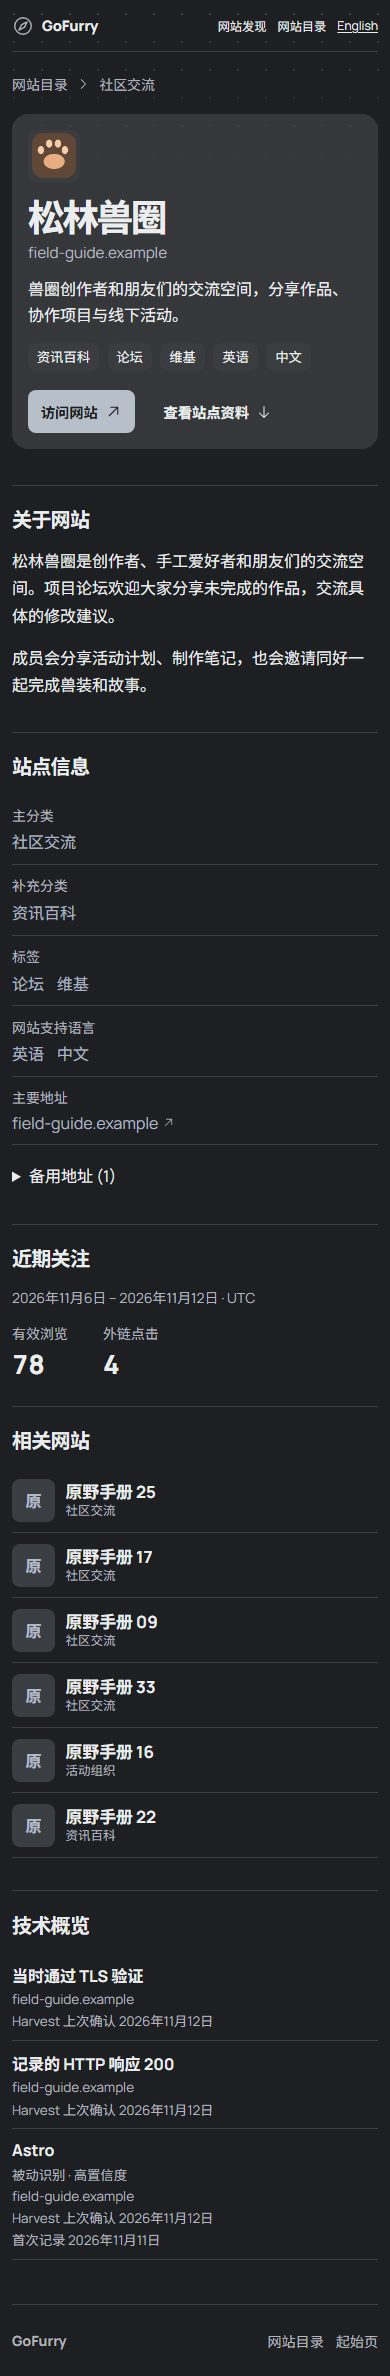
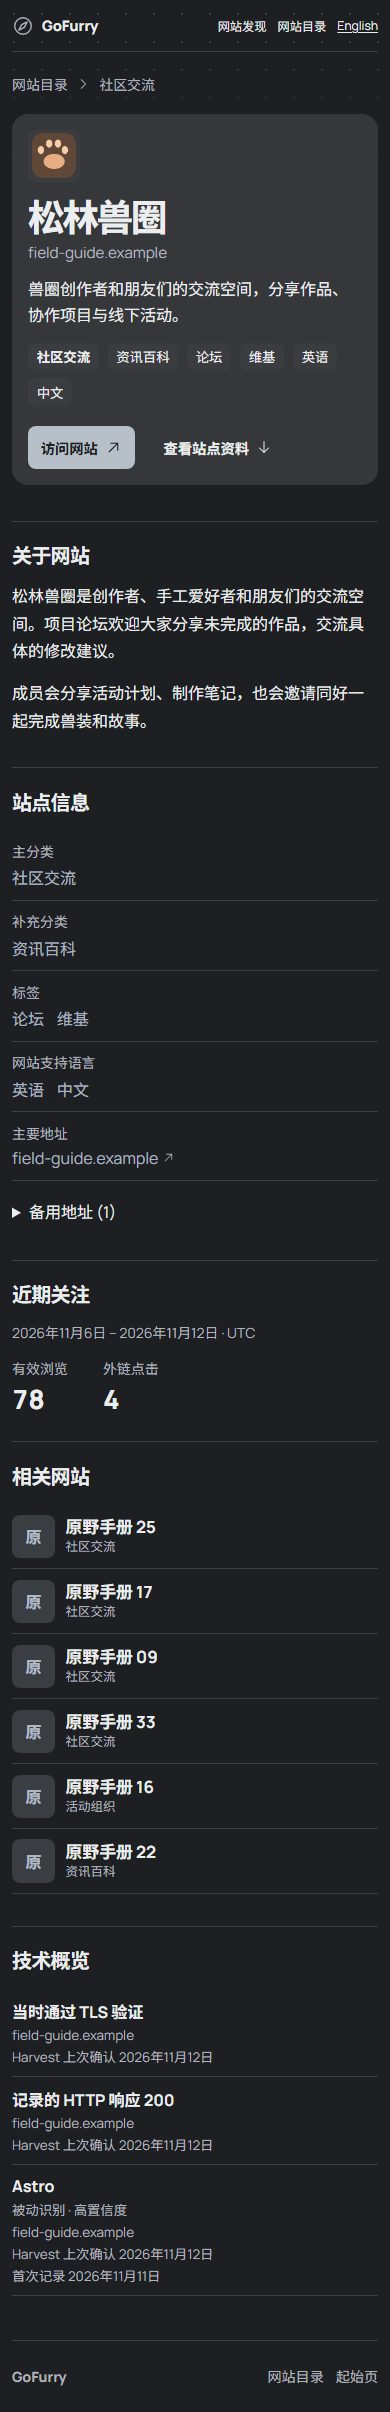
Restore paged directory position when returning from a Site

diff --git a/apps/web/src/navigation/directory.tsx b/apps/web/src/navigation/directory.tsx
@@ -1,4 +1,4 @@
-import { useEffect, useRef, useState, type FormEvent } from 'react'
+import { useEffect, useLayoutEffect, useRef, useState, type FormEvent, type MouseEvent } from 'react'
 import { useNavigate, useRouter, useRouterState } from '@tanstack/react-router'
 import { Dialog } from '@base-ui/react/dialog'
 import { MagnifyingGlassIcon } from '@phosphor-icons/react/dist/ssr/MagnifyingGlass'
@@ -58,6 +58,12 @@ function FilterDialog({ criteria, options, locale, apply }: { criteria: Criteria
 }
 
 type PageError = 'stale' | 'unavailable' | null
+type DirectoryPosition = { scope: string; depth: number; y: number }
+type DirectoryPages = { scope: string; source: Directory; rows: Directory['items']; next?: string; depth: number; restoreY?: number }
+
+// Keep only a position for a recently visited history entry. Cards and
+// cursors are fetched again from the current regional visibility snapshot.
+const directoryPositions = new Map<string, DirectoryPosition>()
 
 export function DirectoryPage({ page, data }: { page: Page; data: Directory }) {
   const { locale, region, path } = page
@@ -68,10 +74,11 @@ export function DirectoryPage({ page, data }: { page: Page; data: Directory }) {
   const router = useRouter()
   const changing = useRouterState({ select: state => state.isLoading })
   const locationKey = useRouterState({ select: state => state.location.href })
+  const historyKey = useRouterState({ select: state => state.location.state.__TSR_key })
   const [query, setQuery] = useState(criteria.q)
   const [loading, setLoading] = useState(false)
   const [issue, setIssue] = useState<PageError>(null)
-  const [extra, setExtra] = useState<{ scope: string; source: Directory; rows: Directory['items']; next?: string }>()
+  const [extra, setExtra] = useState<DirectoryPages>()
   const debounce = useRef<ReturnType<typeof setTimeout> | undefined>(undefined)
   const pending = useRef<AbortController | undefined>(undefined)
   const composing = useRef(false)
@@ -100,6 +107,16 @@ export function DirectoryPage({ page, data }: { page: Page; data: Directory }) {
     setExtra(undefined)
     return () => { pending.current?.abort(); pending.current = undefined }
   }, [data, locationKey])
+  useEffect(() => {
+    if (!historyKey || changing || !data.next) return
+    const position = directoryPositions.get(historyKey)
+    if (!position || position.scope !== scope) return
+    directoryPositions.delete(historyKey)
+    void appendPages(data.next, data.items, 1, position)
+  }, [data, historyKey, scope, changing])
+  useLayoutEffect(() => {
+    if (accumulated?.restoreY !== undefined) window.scrollTo({ top: accumulated.restoreY, behavior: 'instant' })
+  }, [accumulated])
   useEffect(() => () => clearTimeout(debounce.current), [])
 
   function cancelPage() {
@@ -136,35 +153,54 @@ export function DirectoryPage({ page, data }: { page: Page; data: Directory }) {
 
   async function loadMore() {
     if (!next || pending.current || changing) return
-    const restoreFocus = document.activeElement?.hasAttribute('data-load-more')
+    await appendPages(next, results, accumulated?.depth ?? 1)
+  }
+
+  async function appendPages(cursor: string, initialRows: Directory['items'], depth: number, restore?: DirectoryPosition) {
+    const restoreFocus = !restore && document.activeElement?.hasAttribute('data-load-more')
     const controller = new AbortController()
     pending.current = controller
     const current = () => !controller.signal.aborted && pending.current === controller && livePage.current === data && liveLocation.current === locationKey
     setLoading(true)
     setIssue(null)
     try {
-      const response = await fetch('/api/v1/sites/directory?' + apiQuery(criteria, locale, next), {
-        signal: AbortSignal.any([controller.signal, AbortSignal.timeout(5000)]), redirect: 'error', credentials: 'omit',
-      })
-      if (!current()) return
-      if (response.status === 400) { setIssue('stale'); return }
-      if (!response.ok || response.headers.get('x-gofurry-region') !== region || response.headers.get('x-gofurry-content-mode') !== 'SFW') throw new Error()
-      const page = decodeDirectory(await response.json())
-      if (!current()) return
-      const seen = new Set(results.map(item => item.public_id))
-      const additions = page.items.filter(item => {
-        if (seen.has(item.public_id)) return false
-        seen.add(item.public_id)
-        return true
-      })
-      const after = page.next === next ? undefined : page.next
-      setExtra({ scope, source: data, rows: [...results, ...additions], next: after })
-      if (!after && restoreFocus) resultHeading.current?.focus()
+      const seen = new Set(initialRows.map(item => item.public_id))
+      let rows = initialRows
+      let next: string | undefined = cursor
+      const targetDepth = restore?.depth ?? depth + 1
+      while (next && depth < targetDepth) {
+        const response = await fetch('/api/v1/sites/directory?' + apiQuery(criteria, locale, next), {
+          signal: AbortSignal.any([controller.signal, AbortSignal.timeout(5000)]), redirect: 'error', credentials: 'omit',
+        })
+        if (!current()) return
+        if (response.status === 400) { setIssue('stale'); return }
+        if (!response.ok || response.headers.get('x-gofurry-region') !== region || response.headers.get('x-gofurry-content-mode') !== 'SFW') throw new Error()
+        const page = decodeDirectory(await response.json())
+        if (!current()) return
+        const additions = page.items.filter(item => {
+          if (seen.has(item.public_id)) return false
+          seen.add(item.public_id)
+          return true
+        })
+        rows = [...rows, ...additions]
+        next = page.next === next ? undefined : page.next
+        depth += 1
+        setExtra({ scope, source: data, rows, next, depth, restoreY: !next || depth === targetDepth ? restore?.y : undefined })
+      }
+      if (!next && restoreFocus) resultHeading.current?.focus()
     } catch {
       if (current()) setIssue('unavailable')
     } finally {
       if (current()) { pending.current = undefined; setLoading(false) }
     }
+  }
+
+  function rememberPosition(event: MouseEvent<HTMLElement>) {
+    if (!historyKey || !accumulated || event.button !== 0 || event.metaKey || event.ctrlKey || event.shiftKey || event.altKey) return
+    const link = event.target instanceof Element ? event.target.closest('article[data-site-id] a') : null
+    if (!(link instanceof HTMLAnchorElement) || link.target || link.origin !== window.location.origin) return
+    directoryPositions.set(historyKey, { scope, depth: accumulated.depth, y: window.scrollY })
+    if (directoryPositions.size > 16) directoryPositions.delete(directoryPositions.keys().next().value!)
   }
 
   async function refresh() {
@@ -227,7 +263,7 @@ export function DirectoryPage({ page, data }: { page: Page; data: Directory }) {
       <button type="button" className={styles.textAction} onClick={() => { commit(emptyCriteria); searchInput.current?.focus() }}>{m.reset}</button>
     </div>}
     {data.sort === 'heat_7d' && data.effective_sort === 'published_desc' && <p className={styles.notice} role="status">{m.fallback}</p>}
-    <section aria-label={m.directory} aria-busy={loading || changing}>
+    <section aria-label={m.directory} aria-busy={loading || changing} onClickCapture={rememberPosition}>
       {results.length ? <div className={styles.directoryGrid}>{results.map(site => <SiteCard key={site.public_id} site={site} ctx={ctx} />)}</div>
         : <div className={styles.message}><h2>{m.empty}</h2><p>{m.emptyHint}</p></div>}
       {next && <div className={styles.pagination}>

diff --git a/apps/web/src/catalog/site-profile.tsx b/apps/web/src/catalog/site-profile.tsx
@@ -94,14 +94,15 @@ export function SiteProfile({ data }: { data: DetailPageData }) {
           {primary && <p className={styles.domain}>{host(primary.url)}</p>}
           {!translation && <p className={styles.translation}>{m.untranslated}</p>}
           {display.summary && <p className={styles.intro} lang={display.locale}>{display.summary}</p>}
-          {(detail.tags.length > 0 || detail.languages.length > 0 || detail.secondaryCategories.length > 0) && <ul className={styles.chips}>
+          {detail.primaryCategory && <ul className={styles.chips}>
+            <li><Link data-primary-category to={directory} search={to({ category: [detail.primaryCategory] })}>{categories[detail.primaryCategory][locale]}</Link></li>
             {detail.secondaryCategories.map(category => <li key={category}>
               <Link to={directory} search={to({ category: [category] })}>{categories[category][locale]}</Link></li>)}
             {detail.tags.slice(0, 3).map(tag => <li key={tag.code}><Link to={directory} search={to({ tags: [tag.code] })}>{tag[locale]}</Link></li>)}
             {detail.languages.slice(0, 3).map(code => <li key={code}><Link to={directory} search={to({ language: [code] })}>{languageLabel(code, locale)}</Link></li>)}
           </ul>}
           {(primary || hasMain || hasAside) && <div className={styles.actions}>
-            {primary && <a className={styles.visit} href={primary.url} target="_blank" rel="noopener noreferrer"
+            {primary && <a className={styles.visit} href={primary.url} target="_blank" rel="noopener noreferrer" aria-description={channel.newTab}
               onClick={visit} onAuxClick={visit}>{channel.visit}<ArrowUpRightIcon size={17} aria-hidden="true" /></a>}
             {(hasMain || hasAside) && <a className={styles.jump} href="#site-profile">{m.profile}<ArrowDownIcon size={16} aria-hidden="true" /></a>}
           </div>}

diff --git a/apps/web/tests/site-profile.spec.ts b/apps/web/tests/site-profile.spec.ts
@@ -99,9 +99,12 @@ test('directory history and Start menu preserve the navigation path, with native
     events.push(route.request().postDataJSON().type)
     return route.fulfill({ status: 503 })
   })
-  const filtered = '/en/sites/directory?tags=forum'
+  const filtered = '/en/sites/directory?tags=forum%2Cportfolio'
   await page.goto(edge + filtered)
   const source = page.locator('article[data-site-id="0000000000001019"]').getByRole('link', { name: 'Field Guide 25', exact: true })
+  await expect(source).toHaveCount(0)
+  await page.getByRole('button', { name: 'Load more' }).click()
+  await expect(source).toBeVisible()
   await source.scrollIntoViewIfNeeded()
   const scroll = await page.evaluate(() => scrollY)
   expect(scroll).toBeGreaterThan(50)
@@ -112,6 +115,7 @@ test('directory history and Start menu preserve the navigation path, with native
   await page.goBack()
   await expect(page).toHaveURL(edge + filtered)
   await expect(page.getByRole('button', { name: 'Remove Forum' })).toBeVisible()
+  await expect(source).toBeVisible()
   await expect.poll(() => page.evaluate(() => scrollY)).toBeCloseTo(scroll, 0)
   await page.goto(edge + '/en/start')
   await page.getByRole('button', { name: 'GoFurry brand' }).press('Enter')

diff --git a/apps/web/src/routes/{-$language}.sites.directory.tsx b/apps/web/src/routes/{-$language}.sites.directory.tsx
@@ -7,8 +7,11 @@ import { SitesFrame } from '../navigation/frame'
 
 export const Route = createFileRoute('/{-$language}/sites/directory')({
   loaderDeps: ({ search }) => normalizeCriteria(search),
-  loader: ({ params, location, context, deps, abortController }) =>
-    loadSites('directory', params.language, location.pathname, location.searchStr, context.preferences.region, deps, abortController.signal),
+  loader: {
+    staleReloadMode: 'blocking',
+    handler: ({ params, location, context, deps, abortController }) =>
+      loadSites('directory', params.language, location.pathname, location.searchStr, context.preferences.region, deps, abortController.signal),
+  },
   head: ({ loaderData }) => sitesHead(loaderData),
   headers: ({ loaderData }) => sitesHeaders(loaderData),
   component: Directory,

diff --git a/apps/web/src/catalog/site-profile.module.scss b/apps/web/src/catalog/site-profile.module.scss
@@ -41,6 +41,7 @@
 .profile .chips, .actions { display: flex; flex-wrap: wrap; gap: .45rem .55rem; margin-top: .9rem; }
 .profile .chips { list-style: none; padding: 0; font-size: .83rem; }
 .profile .chips a { display: inline-block; padding: .3rem .55rem; border-radius: var(--radius-small); background: var(--site-panel); }
+.profile .chips a[data-primary-category] { font-weight: 700; }
 .profile .chips a:hover { background: var(--surface-hover); }
 .profile .actions { margin-top: 1.2rem; gap: .6rem 1rem; align-items: center; }
 

diff --git a/docs/v0.1-d2-c-acceptance.md b/docs/v0.1-d2-c-acceptance.md
@@ -1,11 +1,11 @@
 # V0.1-D2-C — Site Detail & Navigation Closure
 
-Implementation commit [`2c2b9fe4a36bc38526b375d587046780af5afd2f`](https://github.com/librecosta/gofurry/commit/2c2b9fe4a36bc38526b375d587046780af5afd2f) · [Foundation workflow on the implementation](https://github.com/librecosta/gofurry/actions/runs/43183669564)
+Implementation commit [`2c2b9fe4a36bc38526b375d587046780af5afd2f`](https://github.com/librecosta/gofurry/commit/2c2b9fe4a36bc38526b375d587046780af5afd2f) · [Foundation workflow on the implementation](https://github.com/librecosta/gofurry/actions/runs/43183669564) · [Develop workflow history](https://github.com/librecosta/gofurry/actions/workflows/check.yml?query=branch%3Adevelop)
 
 ## Public profile
 
 - CN and INTL serve a regional, bilingual SSR profile at the existing Public ID and slug URL. It uses the reviewed logo, category, tags, supported languages and safe addresses. Names and summaries come from editorial translations. A missing translation shows the actual source language, uses `noindex` and omits metadata for the missing translation. Slug aliases return 301 to the existing canonical route.
-- The directory, discovery and profile use internal navigation. Chromium verified that returning from a profile preserves the filtered directory URL and its scroll position. Start's existing Sites item opens the localized channel as a keyboard-accessible link. Its popover closes on activation.
+- The directory, discovery and profile use internal navigation. Chromium returned to a filtered directory after following a card on its second page. The directory rebuilt that page with fresh results and restored the scroll position. Start's existing Sites item opens the localized channel as a keyboard-accessible link. Its popover closes on activation.
 - Primary and alternate addresses are native external links. Labels show the host. Existing D2-A click reporting runs beside navigation and visible dwell remains three seconds. Recent activity uses the same seven UTC dates and the existing threshold of 10 effective events on at least two dates. The UI displays qualifying views and clicks and omits zero or insufficient counts.
 - Related results require a shared category or at least two shared tags. The order is same primary category, primary-to-supplemental, shared supplemental, number of tags, number of languages, available Heat v1 tie-breaker and Public ID. The result caps at six reviewed SFW Sites in the same regional database.
 - Technology shows up to five allowed HTTP responses, TLS confirmations or medium/high-confidence fingerprints from the active Consumer projection. It verifies the approved primary address, binding, plan scope, rule version and a confirmation within 30 days. A recorded 410 hides the affected generation until activation of its replacement. Each displayed fact includes its source host and last confirmation time, with a first-observed date when the ledger can attribute that value and ruleset. Published Yearbooks keep their existing dates, versions, URLs and visibility. Older compatible D1 profiles remain reachable with `noindex` and retain their published Yearbook links.
@@ -31,7 +31,7 @@ Use `zh` to update the Chinese localization. Use `-` to clear the selected body.
 ## Executed acceptance
 
 - Disposable PostgreSQL **18.6** and Redis **8.2.1** passed the forward D1 through D2-C migration and a repeated Goose apply. The fixture preserved the Site, Game, wallpaper, Yearbook, Heat, Logo and binding rows and confirmed the four existing foreign keys. The CLI wrote both languages, rejected a stale revision and missing review confirmation, and preserved addresses, taxonomy and the Logo reference.
-- Chromium passed **20** catalog, Yearbook, discovery, directory and profile cases across both regions. They covered raw SSR and 200/301/404/503, missing translation, moderation, native external navigation under reporting failure, directory history and scroll, and the Start connection. The existing Redis and database failure fixtures passed. The current suite uses the existing opt-in gate for live Start weather checks.
+- Chromium passed **20** catalog, Yearbook, discovery, directory and profile cases across both regions. They covered raw SSR and 200/301/404/503, missing translation, moderation, native external navigation under reporting failure, directory history and scroll, and the Start connection. The existing Redis and database failure fixtures passed. The local CN Web suite passed **88** checks. Three existing live-weather cases require an opt-in development API.
 - Responsive acceptance covered light and dark themes, keyboard focus, Reduced Motion, widths from 320 to 1440 CSS px and 200% zoom. Actual Chromium captures show the [desktop English profile](figures/d2-c/profile-desktop.jpg) and [mobile Chinese profile](figures/d2-c/profile-mobile-dark.jpg). Both use anonymous fixtures. The Yearbook browser checks exercised the published profile entry separately.
 - The pinned Harvest V0.1-D suite made **22** simulated acquisition requests. It verified that technology remained readable during Harvest shutdown, disappeared on an old domain binding and during a 410 gap, and returned from the newly activated generation. The catalog fixture also excluded expired, withdrawn and unknown-ruleset records and kept private payload fields out of public JSON.
 - Go vet, tests and build, sqlc diff, Web build and TypeScript passed. The local HMR suite passed both tests. Compose built both images with public mirrors for the existing base images after a local Docker Hub network timeout. The isolated container smoke passed probes, non-root execution, log rotation and SIGTERM. The workflow above records the full CN and INTL Start and container checks.
@@ -46,7 +46,7 @@ Use `zh` to update the Chinese localization. Use `-` to clear the selected body.
 | 1,000 | 2.61 / 8.87 / 0.70 ms | 0.59 / 0.40 / 0.09 ms | 1,440 / 92,774 / 930 |
 | 10,000 | 2.41 / 53.96 / 0.60 ms | 0.25 / 0.46 / 0.21 ms | 1,410 / 912,104 / 930 |
 
-The full seeded English profile returned **18,974 B** of HTML in **38.7 ms** over loopback. The fixture counted one regional API request. The database reads are bounded in number and the profile makes no Harvest, R2 HEAD or site-probe calls. Recommendation cost grows with the pool of overlapping candidates. These measurements describe the fixture and workstation.
+The full seeded English profile returned **19,114 B** of HTML in **26.6 ms** over loopback. The fixture counted one regional API request. The database reads are bounded in number and the profile makes no Harvest, R2 HEAD or site-probe calls. Recommendation cost grows with the pool of overlapping candidates. CPU figures cover the Go process. The fixture records PostgreSQL buffer use and does not isolate PostgreSQL CPU.
 
 ## Deployment checks
 
